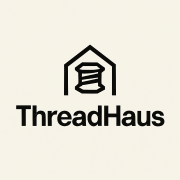
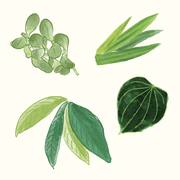
refactor(ui): update carousel presets and sign in page backdrop

diff --git a/app/utils/carousel-presets.ts b/app/utils/carousel-presets.ts
@@ -4,17 +4,8 @@ export const CAROUSEL_PRESETS: { slug: string, description: string, image: strin
     slug: "coffeecorner",
     description: "Your neighborhood coffee shop ☕🍩",
     image: "preset-1.png",
-    icons: [
-      { id: 1, logo: "simple-icons:instagram" },
-      { id: 2, logo: "simple-icons:facebook" },
-      { id: 3, logo: "simple-icons:gmail" },
-    ],
-    links: [
-      { id: 1, title: "Online Menu & Ordering" },
-      { id: 2, title: "Find Us!" },
-      { id: 3, title: "Contact" },
-      { id: 4, title: "Our Story" },
-    ],
+    icons: [{ id: 1, logo: "simple-icons:instagram" }, { id: 2, logo: "simple-icons:facebook" }, { id: 3, logo: "simple-icons:gmail" }],
+    links: [{ id: 1, title: "Online Menu & Ordering" }, { id: 2, title: "Find Us!" }, { id: 3, title: "Contact" }, { id: 4, title: "Our Story" }],
     preferences: {
       backgroundType: "FLAT",
       backgroundColor: "#2c1f14",
@@ -45,57 +36,43 @@ export const CAROUSEL_PRESETS: { slug: string, description: string, image: strin
     },
   },
   {
-    slug: "explore-with-anna",
-    description: "Travel Blogger & Adventurer ✈️",
+    slug: "forma_studio",
+    description: "Curated architectural objects & high-end spatial design. 📐🏺",
     image: "preset-2.png",
-    icons: [
-      { id: 1, logo: "simple-icons:instagram" },
-      { id: 2, logo: "simple-icons:pinterest" },
-      { id: 3, logo: "simple-icons:youtube" },
-    ],
-    links: [
-      { id: 1, title: "Latest Travel Blog" },
-      { id: 2, title: "Travel Vlogs! 🧭📍" },
-      { id: 3, title: "Tips & Gear" },
-    ],
+    icons: [{ id: 1, logo: "simple-icons:instagram" }, { id: 2, logo: "simple-icons:pinterest" }, { id: 3, logo: "simple-icons:threads" }],
+    links: [{ id: 1, title: "Browse Digital Exhibition" }, { id: 2, title: "Book Spatial Consultation" }, { id: 3, title: "Read The Journal" }],
     preferences: {
-      backgroundType: "GRADIENT",
-      backgroundGradientStart: "#b2c6b6",
-      backgroundGradientEnd: "#f5f5f5",
-      profilePictureRadius: "5rem",
-      profilePictureBorderColor: "#2c3e50",
+      backgroundType: "FLAT",
+      backgroundColor: "#fbfbfb",
+      profilePictureRadius: "0rem",
+      profilePictureBorderColor: "#18181b",
       profilePictureBorderWidth: "2px",
-      slugTextColor: "#2c3e50",
+      slugTextColor: "#18181b",
       slugTextWeight: "700",
-      slugTextSize: "1.25rem",
-      slugFontFamily: "'Roboto', sans-serif",
-      headerTextColor: "#272525",
+      slugTextSize: "1.5rem",
+      slugFontFamily: "'Montserrat', sans-serif",
+      headerTextColor: "#52525b",
       headerTextWeight: "400",
       headerTextSize: "1rem",
       headerFontFamily: "'Noto Sans', sans-serif",
-      linkBackgroundColor: "#babdbe",
-      linkTextColor: "#2c3e50",
-      linkTextWeight: "600",
+      linkBackgroundColor: "#18181b",
+      linkTextColor: "#fbfbfb",
+      linkTextWeight: "500",
       linkTextSize: "0.8rem",
-      linkFontFamily: "'Noto Sans', sans-serif",
-      isLinkShadow: true,
-      linkShadowColor: "#e7e5e5",
-      linkShadowWeight: "medium",
-      linkHoverBackgroundColor: "#bdc3c7",
-      linkBorderRadius: "5rem",
-      linkPadding: "0.5rem",
-      iconBackgroundColor: "#e8ecd6",
-      isIconShadow: true,
-      iconShadowColor: "#e7e5e5",
-      iconShadowWeight: "light",
-      iconLogoColor: "#b75a48",
-      iconHoverBackgroundColor: "#d1d9c6",
+      linkFontFamily: "'Montserrat', sans-serif",
+      isLinkShadow: false,
+      linkHoverBackgroundColor: "#3f3f46",
+      linkBorderRadius: "0rem",
+      linkPadding: "0.85rem",
+      iconBackgroundColor: "#f4f4f5",
+      isIconShadow: false,
+      iconLogoColor: "#18181b",
+      iconHoverBackgroundColor: "#e4e4e7",
     },
   },
   {
     slug: "blitz_corp",
-    description:
-      "Experience high-tech innovation with Blitz Corp, where the future is now.",
+    description: "Experience high-tech innovation with Blitz Corp, where the future is now.",
     image: "preset-3.png",
     icons: [
       { id: 1, logo: "simple-icons:linkedin" },
@@ -140,61 +117,87 @@ export const CAROUSEL_PRESETS: { slug: string, description: string, image: strin
     },
   },
   {
-    slug: "threadhaus",
-    description: "Elevated essentials. Modern uniform.",
-    image: "preset-4.png",
-    icons: [
-      { id: 1, logo: "simple-icons:shopify" },
-      { id: 2, logo: "simple-icons:instagram" },
-      { id: 3, logo: "simple-icons:tiktok" },
-    ],
-    links: [
-      { id: 1, title: "Shop New Arrivals" },
-      { id: 2, title: "Style Lookbook" },
-      { id: 3, title: "Join Our Drop List" },
-    ],
+    slug: "blitz_corp",
+    description: "Experience high-tech innovation with Blitz Corp, where the future is now.",
+    image: "preset-3.png",
+    icons: [{ id: 1, logo: "simple-icons:linkedin" }, { id: 2, logo: "simple-icons:x" }, { id: 3, logo: "simple-icons:youtube" }, { id: 4, logo: "simple-icons:github" }],
+    links: [{ id: 1, title: "Innovative Solutions" }, { id: 2, title: "Our Story" }, { id: 3, title: "Contact Us" }],
     preferences: {
       backgroundType: "FLAT",
-      backgroundColor: "#f6f3e7",
-      profilePictureRadius: "0.5rem",
-      profilePictureBorderColor: "#2c3e50",
+      backgroundColor: "#272525",
+      profilePictureRadius: "1rem",
+      profilePictureBorderColor: "#3e7a70",
       profilePictureBorderWidth: "2px",
-      slugTextColor: "#1a1a1a",
+      slugTextColor: "#f5f3f3",
       slugTextWeight: "800",
       slugTextSize: "1.5rem",
-      slugFontFamily: "'Ribeye', serif",
-      headerTextColor: "#333333",
+      slugFontFamily: "'Audiowide', sans-serif",
+      headerTextColor: "#f5f3f3",
+      headerTextWeight: "400",
+      headerTextSize: "1rem",
+      headerFontFamily: "'Roboto', sans-serif",
+      linkBackgroundColor: "#f7f1e3",
+      linkTextColor: "#272525",
+      linkTextWeight: "700",
+      linkTextSize: "0.8rem",
+      linkFontFamily: "'Roboto', sans-serif",
+      isLinkShadow: true,
+      linkShadowColor: "#3e7a70",
+      linkShadowWeight: "medium",
+      linkHoverBackgroundColor: "#d1ccc0",
+      linkBorderRadius: "0.5rem",
+      linkPadding: "0.5rem",
+      iconBackgroundColor: "#f5f3f3",
+      isIconShadow: false,
+      iconLogoColor: "#3e7a70",
+      iconHoverBackgroundColor: "#dcdcdc",
+    },
+  },
+  {
+    slug: "root_and_leaf",
+    description: "Rare aroids and micro-climate jungle botanicals.",
+    image: "preset-4.png",
+    icons: [{ id: 1, logo: "simple-icons:shopify" }, { id: 2, logo: "simple-icons:instagram" }],
+    links: [{ id: 1, title: "Shop Rare Monsteras" }, { id: 2, title: "Plant Care Master Guide" }, { id: 3, title: "Soil Mix Calculator" }, { id: 4, title: "Greenhouse Inventory Tour" }],
+    preferences: {
+      backgroundType: "FLAT",
+      backgroundColor: "#14532d",
+      profilePictureRadius: "1rem",
+      profilePictureBorderColor: "#bbf7d0",
+      profilePictureBorderWidth: "1px",
+      slugTextColor: "#bbf7d0",
+      slugTextWeight: "700",
+      slugTextSize: "1.25rem",
+      slugFontFamily: "'Lora', serif",
+      headerTextColor: "#f0fdf4",
       headerTextWeight: "400",
       headerTextSize: "1rem",
       headerFontFamily: "'Noto Sans', sans-serif",
-      linkBackgroundColor: "#1a1a1a",
+      linkBackgroundColor: "#166534",
+      linkHoverBackgroundColor: "#14532d",
       linkTextColor: "#ffffff",
       linkTextWeight: "600",
-      linkTextSize: "0.8rem",
+      linkTextSize: "0.9rem",
       linkFontFamily: "'Noto Sans', sans-serif",
       isLinkShadow: false,
-      linkHoverBackgroundColor: "#333333",
+      linkShadowColor: "rgba(0,0,0,0.15)",
+      linkShadowWeight: "light",
       linkBorderRadius: "0.5rem",
-      linkPadding: "0.85rem",
-      iconBackgroundColor: "#1a1a1a",
+      linkPadding: "0.75rem",
+      iconBackgroundColor: "#bbf7d0",
+      iconHoverBackgroundColor: "#dcfce7",
       isIconShadow: false,
-      iconLogoColor: "#ffffff",
-      iconHoverBackgroundColor: "#333333",
+      iconShadowColor: "rgba(0,0,0,0.1)",
+      iconShadowWeight: "light",
+      iconLogoColor: "#14532d",
     },
   },
   {
     slug: "studio-sakura",
     description: "Traditional Irezumi & Neo-Japanese Ink 🗾",
     image: "preset-5.png",
-    icons: [
-      { id: 1, logo: "simple-icons:instagram" },
-      { id: 3, logo: "simple-icons:tiktok" },
-    ],
-    links: [
-      { id: 1, title: "Book a Session" },
-      { id: 2, title: "Tattoo Gallery 🎨" },
-      { id: 3, title: "Find Our Studio 🏢" },
-    ],
+    icons: [{ id: 1, logo: "simple-icons:instagram" }, { id: 3, logo: "simple-icons:tiktok" }],
+    links: [{ id: 1, title: "Book a Session" }, { id: 2, title: "Tattoo Gallery 🎨" }, { id: 3, title: "Find Our Studio 🏢" }],
     preferences: {
       backgroundType: "GRADIENT",
       backgroundGradientStart: "#1f0e14",
@@ -229,16 +232,8 @@ export const CAROUSEL_PRESETS: { slug: string, description: string, image: strin
     slug: "devopsdojo",
     description: "CI/CD, IaC & container chaos. 🛠️🐳",
     image: "preset-6.png",
-    icons: [
-      { id: 1, logo: "simple-icons:github" },
-      { id: 2, logo: "simple-icons:bluesky" },
-      { id: 3, logo: "simple-icons:linkedin" },
-      { id: 4, logo: "simple-icons:spotify" },
-    ],
-    links: [
-      { id: 1, title: "Infra Templates (IaC)" },
-      { id: 2, title: "DevOps Blog" },
-    ],
+    icons: [{ id: 1, logo: "simple-icons:github" }, { id: 2, logo: "simple-icons:bluesky" }, { id: 3, logo: "simple-icons:linkedin" }, { id: 4, logo: "simple-icons:spotify" }],
+    links: [{ id: 1, title: "Infra Templates (IaC)" }, { id: 2, title: "DevOps Blog" }, { id: 3, title: "Contact & Consulting" }],
     preferences: {
       backgroundType: "FLAT",
       backgroundColor: "#0f0f0f",

diff --git a/app/components/toast.vue b/app/components/toast.vue
@@ -25,18 +25,18 @@ const { toasts, dismiss } = useToast()
 
 function getToastIcon(type: Toast["type"]) {
   if (type === "success") {
-    return "mdi:check-circle"
+    return "mdi:check-circle-outline"
   }
 
   if (type === "warning") {
-    return "mdi:warning-circle"
+    return "mdi:alert-circle-outline"
   }
 
   if (type === "info") {
-    return "mdi:info-circle"
+    return "mdi:info-circle-outline"
   }
 
-  return "mdi:x-circle"
+  return "mdi:close-circle-outline"
 }
 </script>
 

diff --git a/app/components/carousel.vue b/app/components/carousel.vue
@@ -15,7 +15,7 @@
         <div class="scroll-hide flex h-full flex-1 flex-col items-center gap-2 overflow-y-auto px-4 py-24 text-center" :style="backgroundStyle">
           <img :src="getPresetImage(preset.image || '')" :alt="preset.slug" :style="profilePictureStyle" class="size-24">
           <p :style="slugStyle">
-            /{{ preset.slug }}
+            @{{ preset.slug }}
           </p>
 
           <p :style="descriptionStyle">